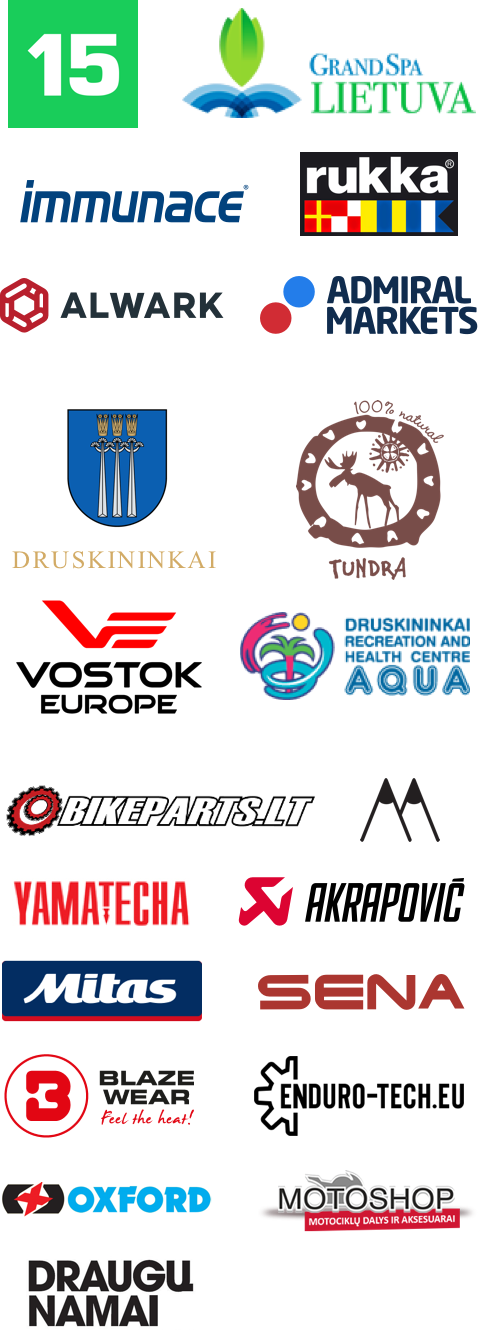
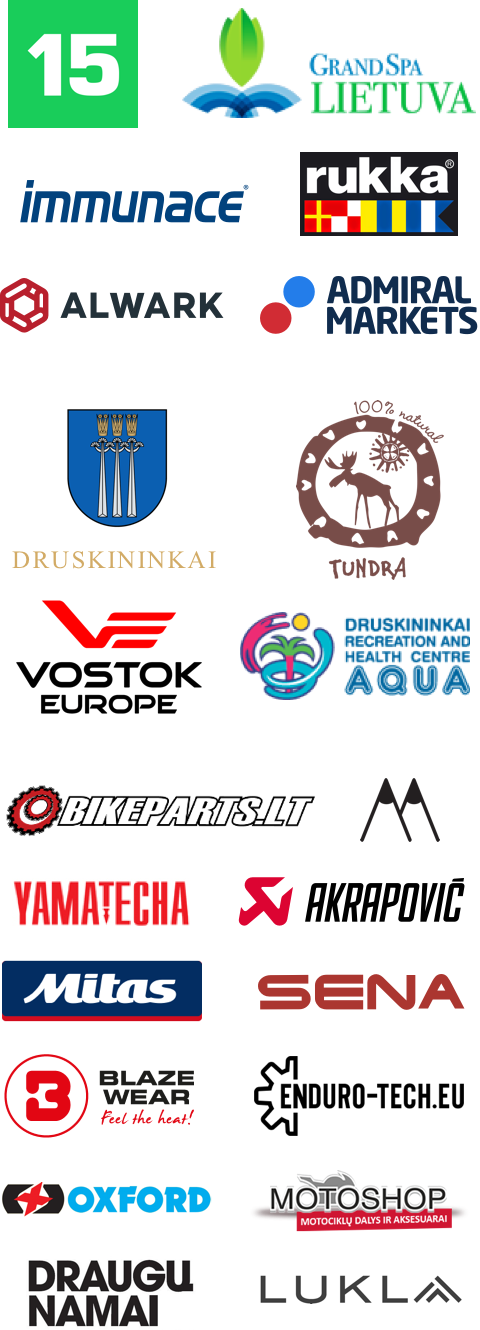
Add Lukla to partners list

Changed region(s): [[0.5312, 0.8632, 0.9688, 0.9248], [0.5312, 0.9556, 0.8438, 0.9865], [0.875, 0.9556, 0.9688, 0.9865]]

diff --git a/_scss/components/_partners.scss b/_scss/components/_partners.scss
@@ -16,7 +16,7 @@
   height: 665px;
   margin: 0 auto;
   position: relative;
-  background: url(/images/partners.png) 0 0 no-repeat;
+  background: url(/images/partners.png?v=2) 0 0 no-repeat;
   background-size: cover;
 }
 
@@ -170,5 +170,12 @@
     height: 36px;
     top: 628px;
     left: 12px;
+  }
+
+  &:nth-child(22) {
+    width: 106px;
+    height: 23px;
+    top: 633px;
+    left: 127px;
   }
 }

diff --git a/_includes/layout/head.html b/_includes/layout/head.html
@@ -1,7 +1,7 @@
 <head>
   <meta charset="UTF-8">
   <meta name="viewport" content="width=device-width, initial-scale=1.0">
-  <link rel="stylesheet" href="{{ site.baseurl_root }}/css/site.css?v=3">
+  <link rel="stylesheet" href="{{ site.baseurl_root }}/css/site.css?v=5">
   {% if page.is_gallery %}
   <link rel="stylesheet" href="{{ site.baseurl_root }}/css/gallery.css">
   {% endif %}
